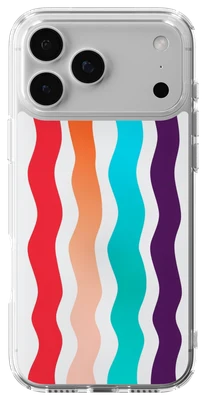
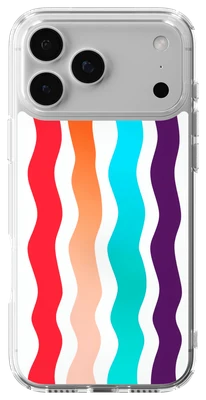
no MagSafe ghosting: normalized shade pass + vibrancy boost (gallery, hero, marquee)

diff --git a/gallery.html b/gallery.html
@@ -381,6 +381,18 @@
     var mc=m.getContext('2d');
     mc.fillStyle='#fff'; mc.fillRect(0,0,20,24);
     mc.drawImage(layer,0,0,20,24);
+    var d=mc.getImageData(0,0,20,24), p=d.data, sum=0, n=0;
+    for(var i=0;i<p.length;i+=4){
+      var l=p[i]*.299+p[i+1]*.587+p[i+2]*.114;
+      p[i]=p[i+1]=p[i+2]=l;
+      if(l<250){ sum+=l; n++; }
+    }
+    var k=n?242/Math.max(sum/n,90):1;
+    for(var j=0;j<p.length;j+=4){
+      var v=Math.min(255,p[j]*k);
+      p[j]=p[j+1]=p[j+2]=v;
+    }
+    mc.putImageData(d,0,0);
     shadeCache[key]=m; return m;
   }
   function renderCase(cv, file, colorIdx){
@@ -398,8 +410,10 @@
       var vb = KP_VIEW[device].b;
       var bx = vb[0]*S, by = vb[1]*S, bw = (vb[2]-vb[0])*S, bh = (vb[3]-vb[1])*S;
       var sc = Math.max(bw/dImg.width, bh/dImg.height), w = dImg.width*sc, h = dImg.height*sc;
+      try{ tc.filter='saturate(1.08) contrast(1.03)'; }catch(_){}
       tc.drawImage(dImg, bx+(bw-w)/2, by+(bh-h)/2, w, h);
-      tc.globalAlpha = .32; tc.globalCompositeOperation = 'multiply';
+      try{ tc.filter='none'; }catch(_){}
+      tc.globalAlpha = .22; tc.globalCompositeOperation = 'multiply';
       tc.drawImage(shadeOf(device + '|' + colorIdx, layer), 0, 0, CW, CH);
       tc.globalAlpha = 1; tc.globalCompositeOperation = 'destination-in';
       tc.drawImage(vmask, 0, 0, CW, CH);

diff --git a/index.html b/index.html
@@ -730,6 +730,18 @@
         var mc=m.getContext('2d');
         mc.fillStyle='#fff'; mc.fillRect(0,0,20,24);
         mc.drawImage(caseImg,0,0,20,24);
+        var d=mc.getImageData(0,0,20,24), p=d.data, sum=0, n=0;
+        for(var i=0;i<p.length;i+=4){
+          var l=p[i]*.299+p[i+1]*.587+p[i+2]*.114;
+          p[i]=p[i+1]=p[i+2]=l;
+          if(l<250){ sum+=l; n++; }
+        }
+        var k=n?242/Math.max(sum/n,90):1;
+        for(var j=0;j<p.length;j+=4){
+          var v=Math.min(255,p[j]*k);
+          p[j]=p[j+1]=p[j+2]=v;
+        }
+        mc.putImageData(d,0,0);
         shade=m; return m;
       }
       function draw(c, img){
@@ -739,8 +751,10 @@
         tc.clearRect(0,0,W,H);
         var bx=BOX[0],by=BOX[1],bw=BOX[2]-BOX[0],bh=BOX[3]-BOX[1];
         var sc=Math.max(bw/img.width,bh/img.height), dw=img.width*sc, dh=img.height*sc;
+        try{ tc.filter='saturate(1.08) contrast(1.03)'; }catch(_){}
         tc.drawImage(img, bx+(bw-dw)/2, by+(bh-dh)/2, dw, dh);
-        tc.globalAlpha=.32; tc.globalCompositeOperation='multiply';
+        try{ tc.filter='none'; }catch(_){}
+        tc.globalAlpha=.22; tc.globalCompositeOperation='multiply';
         tc.drawImage(shadeOf(),0,0,W,H);
         tc.globalAlpha=1; tc.globalCompositeOperation='destination-in';
         tc.drawImage(mask,0,0,W,H);
